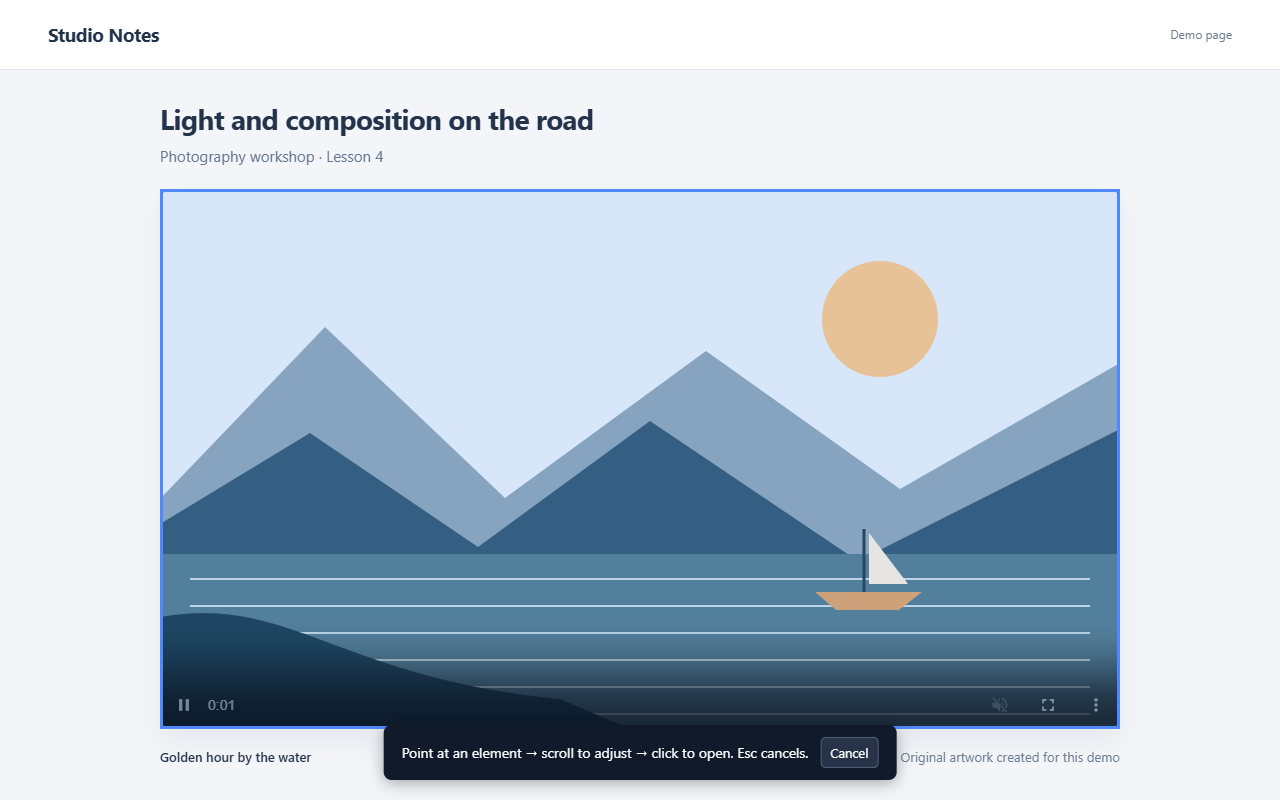
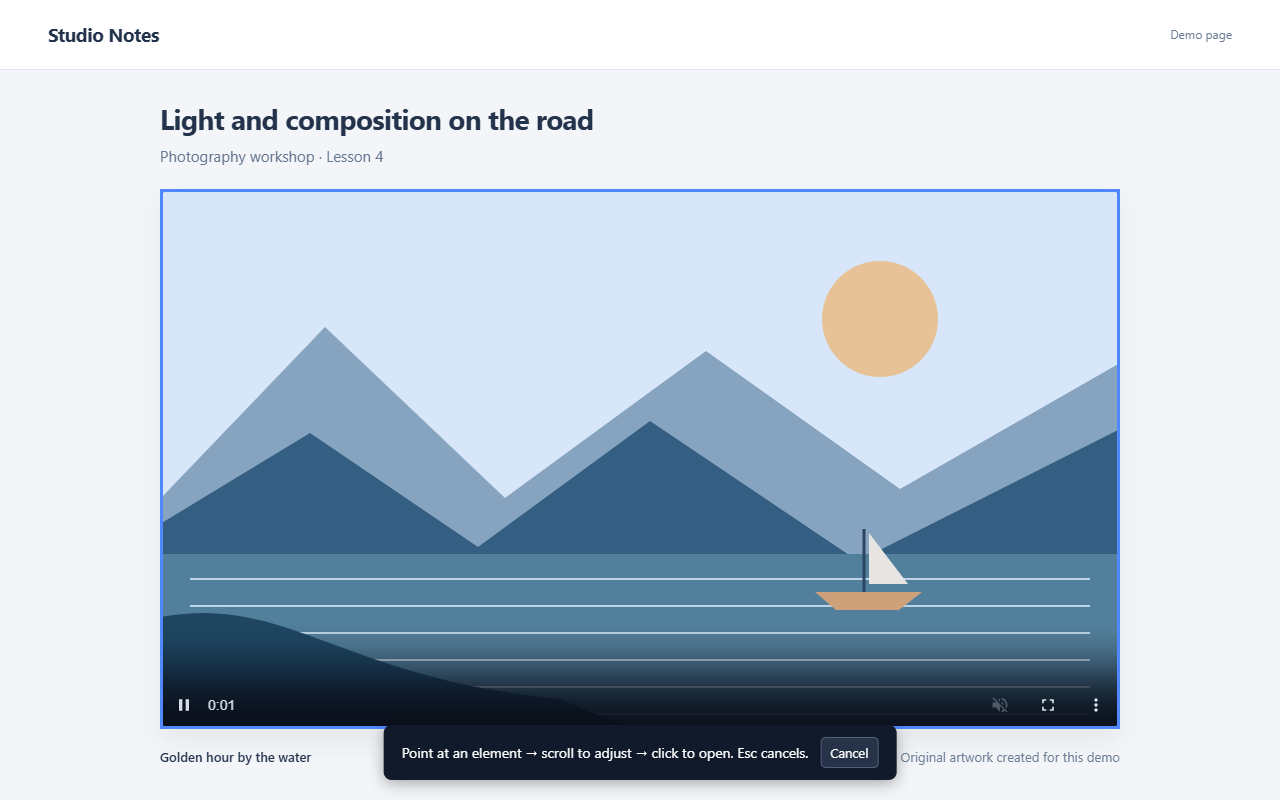
feat: hide player chrome in video-only mode

Changed region(s): [[0.4375, 0.875, 0.875, 0.9062], [0.1562, 0.875, 0.1875, 0.9062]]

diff --git a/media.js b/media.js
@@ -1,0 +1,85 @@
+// Serialized by scripting.executeScript into the extension's isolated world.
+function cleanMediaFrame(selector, roots, enabled, mediaPaths = []) {
+  if (enabled !== 'probe') {globalThis.__swCleanMedia?.(); delete globalThis.__swCleanMedia;}
+  if (!enabled) return;
+  const path = [];
+  for (let win = window; win !== win.top; win = win.parent) {
+    let index = 0;
+    while (index < win.parent.length && win.parent[index] !== win) index++;
+    path.unshift(index);
+  }
+  const key = path.join('.');
+  if (path.length && !roots.some(root => key === root || key.startsWith(root + '.'))) return;
+  const scope = path.length ? document.documentElement : document.querySelector(selector);
+  if (!scope) return;
+  if (enabled === 'probe') {
+    const r = scope.getBoundingClientRect(), area = path.length ? innerWidth * innerHeight : r.width * r.height;
+    const videos = [...scope.querySelectorAll('video'), ...(scope.matches('video') ? [scope] : [])];
+    return videos.some(video => {const v = video.getBoundingClientRect(); return v.width * v.height >= area * .5 && v.width > 0 && getComputedStyle(video).visibility !== 'hidden';}) ? key : null;
+  }
+  const token = 'data-sw-media-' + crypto.randomUUID().replaceAll('-', '');
+  const branch = token + '-branch', targetAttr = token + '-target';
+  let target, controls, style, ancestors = [];
+  function reset() {
+    style?.remove();
+    target?.removeAttribute(targetAttr);
+    if (target?.localName === 'video' && controls) target.setAttribute('controls', '');
+    for (const node of ancestors) node.removeAttribute(branch);
+    ancestors = []; target = null;
+  }
+  function update() {
+    if (target?.isConnected) {
+      if (target.localName === 'video' && target.hasAttribute('controls')) target.removeAttribute('controls');
+      return;
+    }
+    reset();
+    const scopeRect = scope.getBoundingClientRect();
+    const area = path.length ? innerWidth * innerHeight : scopeRect.width * scopeRect.height;
+    const nodes = [...scope.querySelectorAll('video,iframe'), ...(scope.matches('video,iframe') ? [scope] : [])];
+    const candidates = nodes.filter(node => {
+      const r = node.getBoundingClientRect();
+      if (node.localName === 'iframe') {
+        const owner = node.contentWindow;
+        let childPath = key;
+        if (owner !== window) {
+          let index = 0; while (index < window.length && window[index] !== owner) index++;
+          childPath = [...path,index].join('.');
+        }
+        if (!mediaPaths.some(media => media === childPath || media.startsWith(childPath + '.'))) return false;
+      }
+      return r.width * r.height >= area * .5 && getComputedStyle(node).visibility !== 'hidden' &&
+        (node.localName !== 'video' || node.readyState > 0);
+    }).sort((a,b) => Number(b.localName === 'video') - Number(a.localName === 'video') ||
+      b.getBoundingClientRect().width * b.getBoundingClientRect().height - a.getBoundingClientRect().width * a.getBoundingClientRect().height);
+    target = candidates[0];
+    if (!target) return;
+    controls = target.localName === 'video' && target.hasAttribute('controls');
+    target.removeAttribute('controls'); target.setAttribute(targetAttr, '');
+    if (target === scope && !path.length) {
+      style = document.createElement('style');
+      style.textContent = `[${targetAttr}]{border:0!important;outline:0!important;box-shadow:none!important;object-fit:contain!important;background:#000!important}`;
+      document.documentElement.append(style); return;
+    }
+    for (let node = target.parentElement; node; node = node.parentElement) {
+      node.setAttribute(branch, ''); ancestors.push(node);
+      if (node === scope) break;
+    }
+    style = document.createElement('style');
+    const b = `[${branch}]`, t = `[${targetAttr}]`;
+    style.textContent = `
+      ${b}:not(${path.length ? 'html' : selector}){display:contents!important;position:static!important;transform:none!important;filter:none!important;contain:none!important;overflow:visible!important;background:none!important;border:0!important;padding:0!important;margin:0!important;box-shadow:none!important}
+      ${b}::before,${b}::after{display:none!important;content:none!important}
+      ${b}>:not(${b}):not(${t}):not(style):not(script):not(link){display:none!important}
+      ${path.length ? 'html,body{background:#000!important;overflow:hidden!important;margin:0!important;padding:0!important}' : ''}
+      ${t}{position:${path.length ? 'fixed' : 'absolute'}!important;inset:0!important;width:100%!important;height:100%!important;max-width:none!important;max-height:none!important;min-width:0!important;min-height:0!important;transform:none!important;margin:0!important;padding:0!important;border:0!important;object-fit:contain!important;background:#000!important;visibility:visible!important}
+    `;
+    document.documentElement.append(style);
+  }
+  const observer = new MutationObserver(update);
+  observer.observe(scope, {subtree:true, childList:true, attributes:true, attributeFilter:['controls']});
+  document.addEventListener('loadedmetadata', update, true);
+  update();
+  globalThis.__swCleanMedia = () => {
+    observer.disconnect(); document.removeEventListener('loadedmetadata', update, true); reset();
+  };
+}

diff --git a/content.js b/content.js
@@ -7,7 +7,7 @@
   const ancestorAttr = `data-${token}-ancestor`;
   let selected, selector, sourceUrl, initialSize, cropStyle, ui, shadow, picker;
   let ancestors = [], scale = 1, rotation = 0, brightness = 1, fit = true;
-  let marker, markerTarget, savedSelector, noticeTimer, detached = false, pinButton, pipActive = false;
+  let marker, markerTarget, savedSelector, noticeTimer, detached = false, pinButton, pipActive = false, cleanVideo = true;
 
   async function send(type, extra = {}) {
     const result = await chrome.runtime.sendMessage({type, ...extra});
@@ -203,12 +203,15 @@
       return button;
     }
     button(t('returnShort'), t('returnTitle'), () => send('restore'));
+    button(t('showPlayer'), t('showPlayer'), async button => {
+      const enabled = !cleanVideo;
+      await send('clean-media', {selector, frameRoots: mediaFrameRoots(), enabled});
+      cleanVideo = enabled;
+      button.textContent = t(enabled ? 'showPlayer' : 'onlyVideo');
+      button.title = button.textContent; button.setAttribute('aria-label', button.title);
+    });
     pinButton = button(t('pin'), t('pinTitle'), async () => {
-      const frames = [...document.querySelectorAll('iframe,frame')].filter(frame => selected.contains(frame));
-      const frameRoots = frames.map(frame => {
-        for (let index = 0; index < window.length; index++) if (window[index] === frame.contentWindow) return String(index);
-      }).filter(root => root !== undefined);
-      const result = await send('video-pin', {selector, frameRoots});
+      const result = await send('video-pin', {selector, frameRoots: mediaFrameRoots()});
       setPinState(result.active);
     });
     setPinState(pipActive);
@@ -255,9 +258,18 @@
     removeMarker(); selected.setAttribute(targetAttr, '');
     for (let ancestor = selected.parentElement; ancestor; ancestor = ancestor.parentElement) {ancestor.setAttribute(ancestorAttr, ''); ancestors.push(ancestor);}
     cropStyle = document.createElement('style'); document.documentElement.append(cropStyle);
-    toolbar(); renderCrop();
-    try {await send('detach', {selector, width: rect.width, height: rect.height}); detached = true;}
+    cleanVideo = true; toolbar(); renderCrop();
+    try {
+      await send('detach', {selector, width: rect.width, height: rect.height}); detached = true;
+      await send('clean-media', {selector, frameRoots: mediaFrameRoots()}).catch(error => notify(error.message));
+    }
     catch (error) {unCrop(); throw error;}
+  }
+
+  function mediaFrameRoots() {
+    return [...document.querySelectorAll('iframe,frame')].filter(frame => selected.contains(frame)).map(frame => {
+      for (let index = 0; index < window.length; index++) if (window[index] === frame.contentWindow) return String(index);
+    }).filter(root => root !== undefined);
   }
 
   function positionMarker() {
@@ -283,6 +295,11 @@
 
   window.addEventListener('resize', () => {renderCrop(); positionMarker();});
   window.addEventListener('scroll', positionMarker, {passive: true, capture: true});
+  document.addEventListener('load', event => {
+    if (selected && cleanVideo && event.target.localName === 'iframe' && selected.contains(event.target)) {
+      send('clean-media', {selector, frameRoots: mediaFrameRoots()}).catch(error => notify(error.message));
+    }
+  }, true);
   chrome.runtime.onMessage.addListener((message, sender, respond) => {
     if (sender.id !== chrome.runtime.id) return;
     switch (message.type) {

diff --git a/background.js b/background.js
@@ -1,3 +1,4 @@
+importScripts('media.js');
 const t = (key, substitutions) => chrome.i18n.getMessage(key, substitutions);
 const sessionKey = id => `window:${id}`;
 const selectionKey = url => `selection:${url}`;
@@ -32,6 +33,7 @@ async function removePlaceholder(state) {
 async function restore(tabId) {
   const key = sessionKey(tabId);
   const state = (await chrome.storage.session.get(key))[key];
+  await chrome.scripting.executeScript({target: {tabId, allFrames:true}, func:cleanMediaFrame, args:['', [], false]}).catch(() => {});
   await tell(tabId, 'uncrop').catch(() => {});
   if (!state) {await tell(tabId, 'returned').catch(() => {}); return;}
   const origin = await findOrigin(state);
@@ -128,6 +130,13 @@ async function handle(message, sender) {
   const key = sessionKey(tabId);
   const state = (await chrome.storage.session.get(key))[key];
   switch (message.type) {
+    case 'clean-media': {
+      if (!state || sender.frameId !== 0 || typeof message.selector !== 'string' || message.selector.length > 12000 || !Array.isArray(message.frameRoots) || !message.frameRoots.every(root => typeof root === 'string' && /^\d+$/.test(root))) throw new Error(t('detachFirst'));
+      const probes = message.enabled === false ? [] : await chrome.scripting.executeScript({target:{tabId, allFrames:true}, func:cleanMediaFrame, args:[message.selector, message.frameRoots, 'probe']});
+      const paths = probes.map(frame => frame.result).filter(path => typeof path === 'string');
+      await chrome.scripting.executeScript({target:{tabId, allFrames:true}, func:cleanMediaFrame, args:[message.selector, message.frameRoots, message.enabled !== false, paths]});
+      return;
+    }
     case 'video-pin': {
       if (!state || sender.frameId !== 0 || typeof message.selector !== 'string' || message.selector.length > 12000 || !Array.isArray(message.frameRoots) || !message.frameRoots.every(root => typeof root === 'string' && /^\d+$/.test(root))) throw new Error(t('detachFirst'));
       return toggleVideoPin(tabId, message.selector, message.frameRoots);

diff --git a/docs/privacy.html b/docs/privacy.html
@@ -3,7 +3,7 @@
 <head><meta charset="utf-8"><meta name="viewport" content="width=device-width,initial-scale=1"><title>Separate Window — Privacy policy</title><link rel="icon" href="favicon.ico"><style>
 :root{color-scheme:light}*{box-sizing:border-box}body{margin:0;background:#f3f6fb;color:#24354c;font:16px/1.7 "Segoe UI",system-ui,sans-serif}main{max-width:880px;margin:auto;padding:48px 24px 80px}header{display:flex;gap:14px;align-items:center}header img{width:56px;height:56px}h1{margin:0;font-size:30px;line-height:1.2}h2{font-size:21px;line-height:1.3;margin:28px 0 10px}h3{font-size:17px;margin:24px 0 8px}nav{display:flex;gap:20px;margin:28px 0}a{color:#2357d9}article{padding:12px 28px 28px;background:white;border:1px solid #dde5f0;border-radius:12px;margin-bottom:28px}.meta{font-size:14px;color:#63758f}p{margin:10px 0}a:focus-visible{outline:3px solid #8fafff;outline-offset:3px}@media(max-width:600px){main{padding:24px 16px}article{padding:8px 20px 24px}h1{font-size:25px}}
 </style></head>
-<body><main><header><img src="store/assets/icon128.png" alt=""><h1>Separate Window</h1></header><p class="meta">Политика конфиденциальности / Privacy policy · 26 October 2026 · Version 1.2.1</p><nav aria-label="Language"><a href="#ru">Русский</a><a href="#en">English</a></nav>
+<body><main><header><img src="store/assets/icon128.png" alt=""><h1>Separate Window</h1></header><p class="meta">Политика конфиденциальности / Privacy policy · 26 October 2026 · Version 1.3.0</p><nav aria-label="Language"><a href="#ru">Русский</a><a href="#en">English</a></nav>
 <article id="ru" lang="ru">
 <h2>Политика конфиденциальности</h2>
 <p>Издатель расширения — <strong>Mycelium</strong>. Поддержка и вопросы о данных: <a href="mailto:qobuz43@gmail.com">qobuz43@gmail.com</a>. Эта политика относится к расширению Separate Window.</p>

diff --git a/tests/pip.py b/tests/pip.py
@@ -20,8 +20,8 @@ class PipHandler(Handler):
                 <video id="decoy" autoplay muted></video><section id="empty">No video</section>
                 <iframe id="player" src="http://localhost:{port}/nested"></iframe>''' + STREAM,
             '/nested': f'''<style>body{{margin:0}}iframe{{width:100%;height:100%;border:0}}</style>
-                <iframe src="http://127.0.0.1:{port}/video"></iframe>''',
-            '/video': '<style>body{margin:0}video{width:100%;height:100%}</style><video autoplay muted></video>' + STREAM,
+                <iframe src="http://127.0.0.1:{port}/video"></iframe><button id="frame-panel" style="position:fixed;top:0">Season</button>''',
+            '/video': '<style>body{margin:0}video{width:100%;height:100%}#player-panel{position:fixed;inset:0;background:#0004}</style><video autoplay muted controls></video><div id="player-panel"><select><option>Season 6</option></select><button>Next episode</button></div>' + STREAM,
         }
         if self.path not in pages:
             return super().do_GET()
@@ -41,7 +41,7 @@ def main():
                 args=[f'--disable-extensions-except={ROOT}', f'--load-extension={ROOT}'])
             try:
                 worker = context.service_workers[0] if context.service_workers else context.wait_for_event('serviceworker')
-                labels = worker.evaluate("Object.fromEntries(['pinTitle','unpinTitle','pipNoVideo','pipBlocked'].map(k=>[k,chrome.i18n.getMessage(k)]))")
+                labels = worker.evaluate("Object.fromEntries(['pinTitle','unpinTitle','pipNoVideo','pipBlocked','showPlayer','onlyVideo'].map(k=>[k,chrome.i18n.getMessage(k)]))")
                 page = context.pages[0]
                 page.goto(url)
                 video_frame = next(frame for frame in page.frames if frame.url.endswith('/video'))
@@ -73,6 +73,21 @@ def main():
                     page.mouse.move(*rect)
                     page.mouse.click(*rect)
 
+                nested_frame = next(frame for frame in page.frames if frame.url.endswith('/nested'))
+                video_frame.locator('#player-panel').wait_for(state='hidden')
+                assert not nested_frame.locator('#frame-panel').is_visible()
+                assert not video_frame.locator('video').evaluate('(v)=>v.controls')
+                assert page.locator('#player').evaluate('(e)=>getComputedStyle(e).borderTopWidth') == '0px'
+                button('showPlayer')
+                video_frame.locator('#player-panel').wait_for(state='visible')
+                assert nested_frame.locator('#frame-panel').is_visible()
+                assert video_frame.locator('video').evaluate('(v)=>v.controls')
+                button('onlyVideo')
+                video_frame.locator('#player-panel').wait_for(state='hidden')
+                assert not video_frame.locator('video').evaluate('(v)=>v.controls')
+                assert video_frame.evaluate('window.identity') == identity
+                page.screenshot(path=str(ROOT/'tests/clean-video.png'))
+                print('PASS: player overlays and native controls hidden across nested frames; reversible without reload', flush=True)
                 button('pinTitle')
                 video_frame.wait_for_function('!!document.pictureInPictureElement', timeout=5000)
                 assert not page.evaluate('!!document.pictureInPictureElement'), 'A larger unrelated video must never be selected'
@@ -96,6 +111,9 @@ def main():
                 print('PASS: player PiP restriction is respected and explained', flush=True)
 
                 worker.evaluate('''async url => {const [tab]=await chrome.tabs.query({url});await restore(tab.id);await tell(tab.id,'select')}''', url)
+                assert video_frame.locator('#player-panel').is_visible()
+                assert nested_frame.locator('#frame-panel').is_visible()
+                assert video_frame.locator('video').evaluate('(v)=>v.controls')
                 box = page.locator('#empty').bounding_box()
                 page.mouse.click(box['x'] + 20, box['y'] + box['height'] / 2)
                 page.wait_for_function('document.querySelector("#empty").getAttributeNames().some(x=>x.endsWith("-target"))')

diff --git a/tools/package.py b/tools/package.py
@@ -8,7 +8,7 @@ manifest = json.loads((ROOT / 'manifest.json').read_text(encoding='utf-8'))
 destination = ROOT / 'dist'
 destination.mkdir(exist_ok=True)
 package = destination / f'separate-window-{manifest["version"]}.zip'
-files = [ROOT / name for name in ('manifest.json','background.js','content.js','popup.html','popup.css','popup.js')]
+files = [ROOT / name for name in ('manifest.json','background.js','content.js','media.js','popup.html','popup.css','popup.js')]
 files += [ROOT / path for path in sorted(set(manifest['icons'].values()))]
 files += sorted((ROOT / '_locales').glob('*/messages.json'))
 with zipfile.ZipFile(package, 'w', zipfile.ZIP_DEFLATED) as archive:

diff --git a/README.md b/README.md
@@ -4,7 +4,7 @@
 
 ![Separate Window](icons/icon128.png)
 
-Материалы и инструкция публикации: [docs/store/README.md](docs/store/README.md). Сборка чистого ZIP для Chrome Web Store: `python tools/package.py`; результат — `dist/separate-window-1.2.1.zip`. Отдельный архив с изображениями и текстами — `dist/chrome-web-store-materials-1.2.1.zip`.
+Материалы и инструкция публикации: [docs/store/README.md](docs/store/README.md). Сборка чистого ZIP для Chrome Web Store: `python tools/package.py`; результат — `dist/separate-window-1.3.0.zip`. Отдельный архив с изображениями и текстами — `dist/chrome-web-store-materials-1.3.0.zip`.
 
 Издатель: **Mycelium**. Поддержка: **qobuz43@gmail.com**. [Политика конфиденциальности](https://merlinrus.github.io/SeparateWindow/privacy.html).
 
@@ -26,7 +26,7 @@
 - Прокрутка вниз расширяет выбор до родительского контейнера; вверх возвращает к меньшему блоку.
 - Щелчок левой кнопкой выносит блок в отдельное окно. Esc или кнопка «Отмена» отменяют выбор.
 - В режиме выбора прозрачный слой перехватывает нажатия поверх плееров и iframe. Клик выбора не должен переключать воспроизведение. После выбора или отмены слой удаляется и управление плеером работает как обычно.
-- Для видео с собственными кнопками выбирайте весь контейнер плеера, а не только тег видео.
+- Для видео можно выбрать весь контейнер или iframe плеера: если видео занимает основную часть блока, режим «Только видео» убирает панели сайта и встроенные кнопки видео. «Показать плеер» возвращает их без перезагрузки. Небольшие видео внутри обычного виджета не изолируются автоматически.
 - Можно начать выбор через контекстное меню страницы или сочетанием **Alt+Shift+S**. Если сочетание занято, измените его в `chrome://extensions/shortcuts`.
 
 В отдельном окне доступны:
@@ -36,6 +36,7 @@
 | Управление | Действие |
 | --- | --- |
 | ↩ Во вкладку | Возвращает исходную страницу и её вёрстку без перезагрузки |
+| Показать плеер / Только видео | По умолчанию скрывает панели видеоплеера, оставляя кадр. Переключатель временно возвращает выбор серий, качество и остальные элементы сайта |
 | 📌 Поверх всех / Вернуть видео | Открывает видео из выбранного блока в системном окне «картинка в картинке» поверх остальных приложений; повторное нажатие возвращает видео |
 | Размер | Запоминает размер и положение окна для этой страницы; повторное нажатие удаляет сохранение |
 | − / + | Уменьшает / увеличивает блок |

diff --git a/docs/store/README.md b/docs/store/README.md
@@ -1,11 +1,11 @@
-# Публикация Separate Window 1.2.1
+# Публикация Separate Window 1.3.0
 
 Издатель: **Mycelium**. Поддержка: **qobuz43@gmail.com**.
 Подготовлено по тому же принципу, что Mycelium Autofill: чистый ZIP расширения и отдельный комплект материалов RU/EN.
 
 ## Что загружать
 
-1. **Пакет расширения:** `dist/separate-window-1.2.1.zip`. В корне лежит manifest.json; тестов, документации и исходных SVG в пакете нет.
+1. **Пакет расширения:** `dist/separate-window-1.3.0.zip`. В корне лежит manifest.json; тестов, документации и исходных SVG в пакете нет.
 2. **Иконка карточки:** `assets/icon128.png` — PNG 128×128, прозрачный отступ 16 px, знак 96×96.
 3. **Скриншоты:** `assets/screenshot-01-select-ru.png`, `screenshot-02-window-ru.png`, `screenshot-03-app-ru.png`. Для английской локали — соответствующие `-en.png`. Все 1280×800, PNG RGB. Это работающий интерфейс на собственных демо-данных; третий кадр оформляет настоящий снимок popup как презентацию приложения.
 4. **Малое промо:** `assets/promo-440x280.png`. Дополнительное большое промо: `assets/promo-1400x560.png`.
@@ -13,12 +13,12 @@
 6. **Privacy practices:** `privacy-fields.md`; инструкции проверки — `reviewer-instructions.md`.
 7. **Privacy policy URL:** https://merlinrus.github.io/SeparateWindow/privacy.html
 
-Комплект `dist/chrome-web-store-materials-1.2.1.zip` содержит изображения и тексты. **Его не нужно загружать как пакет расширения.**
+Комплект `dist/chrome-web-store-materials-1.3.0.zip` содержит изображения и тексты. **Его не нужно загружать как пакет расширения.**
 
 ## В кабинете Chrome Web Store
 
 1. В аккаунте издателя Mycelium откройте существующую карточку Separate Window с ID `fhcafcdfknddjfgbbkhpglgamceiclcm`. ZIP Separate Window нельзя загружать обновлением Mycelium Autofill.
-2. Загрузите `separate-window-1.2.1.zip`.
+2. Загрузите `separate-window-1.3.0.zip`.
 3. Укажите название Separate Window, категорию Productivity, язык RU, описания и поддержку qobuz43@gmail.com. Добавьте EN-локаль и её изображения/описание.
 4. Загрузите иконку, три скриншота и промо. Укажите публичную политику и заполните поля по privacy-fields.md.
 5. Вставьте reviewer-instructions.md. Доступы и тестовый аккаунт не требуются.

diff --git a/docs/store/listing-ru.md b/docs/store/listing-ru.md
@@ -1,4 +1,4 @@
-# Карточка Chrome Web Store — Separate Window 1.2.1
+# Карточка Chrome Web Store — Separate Window 1.3.0
 
 Издатель: **Mycelium**. Поддержка: **qobuz43@gmail.com**.
 Основной язык: русский. Дополнительный: английский.
@@ -22,6 +22,7 @@ Separate Window открывает выбранную часть веб-стра
 - Перенос текущей вкладки в отдельное окно без перезагрузки страницы.
 - Только выбранный блок: оформление и фон окружающей страницы временно скрываются.
 - Полупрозрачные кнопки поверх содержимого, которые появляются при наведении.
+- Чистый режим видео без панелей плеера; кнопка «Показать плеер» возвращает настройки сайта без перезагрузки. Работает также во вложенных iframe с доступным HTML-видео.
 - Кнопка «Поверх всех» открывает видео в режиме Chrome «картинка в картинке», в том числе из вложенных плееров.
 - Возврат живой страницы во вкладку кнопкой «Во вкладку».
 - Восстановление страницы обычной вкладкой после закрытия отдельного окна крестиком.

diff --git a/docs/store/listing-en.md b/docs/store/listing-en.md
@@ -1,4 +1,4 @@
-# Chrome Web Store listing — Separate Window 1.2.1
+# Chrome Web Store listing — Separate Window 1.3.0
 
 Publisher: **Mycelium**. Support: **qobuz43@gmail.com**.
 Category: Productivity. Default language: Russian. Additional locale: English.
@@ -21,6 +21,7 @@ Features:
 - Move the current tab into a popup without reloading the page.
 - Show only the selected element; temporarily hide surrounding page decoration.
 - Translucent controls appear over the content when you hover over their area.
+- Video-only mode hides player panels; “Show player” restores site controls without reloading. Also supports accessible HTML video inside nested frames.
 - “Always on top” opens video in Chrome picture-in-picture, including videos in nested players.
 - Return the live page to a regular tab with “Back to tab”.
 - Recover the page as a regular tab after closing the popup with its native close button.

diff --git a/docs/store/reviewer-instructions.md b/docs/store/reviewer-instructions.md
@@ -1,4 +1,4 @@
-# Reviewer instructions — Separate Window 1.2.1
+# Reviewer instructions — Separate Window 1.3.0
 
 No account, credentials, payment, external application or server is required.
 The publisher is Mycelium; support: qobuz43@gmail.com.

diff --git a/docs/store/privacy-fields.md b/docs/store/privacy-fields.md
@@ -1,4 +1,4 @@
-# Privacy practices — Separate Window 1.2.1
+# Privacy practices — Separate Window 1.3.0
 
 Publisher: Mycelium. Contact: qobuz43@gmail.com.
 
